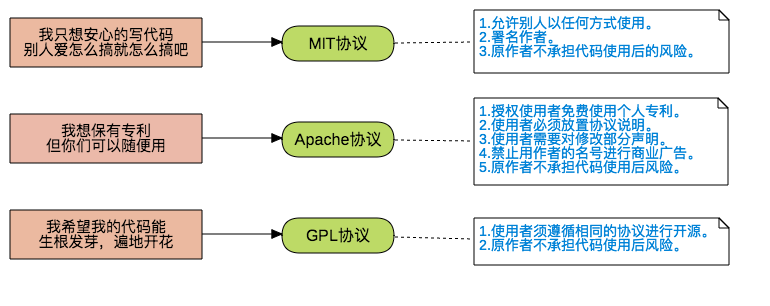
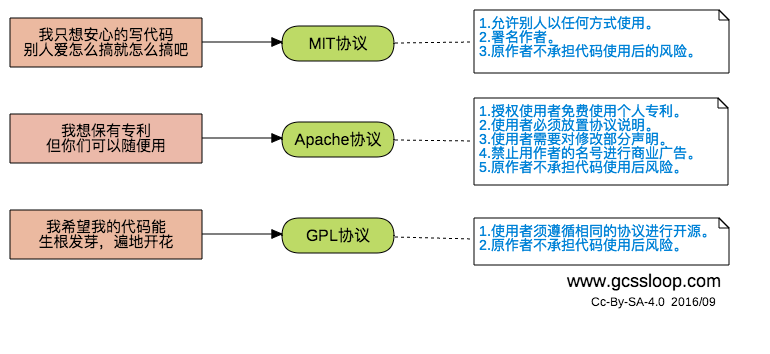
魔法-修复

diff --git a/ChaosCrystal/开源共享协议.md b/ChaosCrystal/开源共享协议.md
@@ -21,3 +21,5 @@
 由于开源协议种类众多，作为普通人很难搞懂它们之间的区别，即便是常见的协议大家也不完全知道协议的内容，那么如何快速的选择一款适合自己的协议呢？如果你是一个怕麻烦的人，下面的建议或许对你有有帮助。
 
 ![快速选择协议](https://raw.githubusercontent.com/GcsSloop/AndroidNote/magic-world/ChaosCrystal/elements/quick_choose.png)
+
+顺便一提，目前使用最多的是MIT协议，而我(GcsSloop)常用的则是Apache协议。如果你想对协议了解更多的话，可以参照下面的图片或者选择
